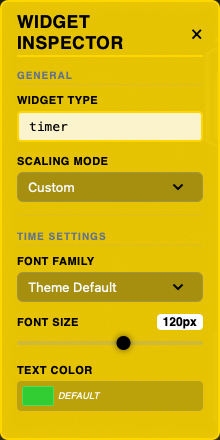
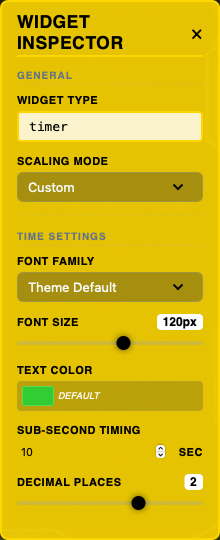
Made fractional timing completely configurable https://github.com/daufderheide/racecoordinator_ai/issues/423

diff --git a/client/src/app/components/ui-editor/widget-inspector-fields/timer-inspector/timer-inspector.component.html b/client/src/app/components/ui-editor/widget-inspector-fields/timer-inspector/timer-inspector.component.html
@@ -74,4 +74,53 @@
       }
     </div>
   </div>
+
+  <!-- Subsecond Settings -->
+  <div class="inspector-section">
+    <label class="inspector-label">{{
+      "UE_INSPECTOR_TIMER_SUBSECOND_THRESHOLD" | translate
+    }}</label>
+    <div style="display: flex; gap: 8px; align-items: center">
+      <input
+        type="number"
+        min="0"
+        step="1"
+        [ngModel]="settings().timeSubsecondThreshold ?? 10"
+        (ngModelChange)="
+          settings().timeSubsecondThreshold = $event; onSettingsChange()
+        "
+        style="
+          flex: 1;
+          padding: 4px;
+          background: var(--bg-level-3);
+          border: 1px solid var(--border-color);
+          color: var(--text-color);
+          border-radius: 4px;
+        "
+      />
+      <span class="inspector-label" style="margin-bottom: 0">sec</span>
+    </div>
+  </div>
+
+  <div class="inspector-section">
+    <div class="inspector-label-row">
+      <label class="inspector-label">{{
+        "UE_INSPECTOR_TIMER_SUBSECOND_DECIMALS" | translate
+      }}</label>
+      <span class="inspector-val-badge">{{
+        settings().timeSubsecondDecimals ?? 2
+      }}</span>
+    </div>
+    <input
+      type="range"
+      min="0"
+      max="3"
+      step="1"
+      [ngModel]="settings().timeSubsecondDecimals ?? 2"
+      (ngModelChange)="
+        settings().timeSubsecondDecimals = $event; onSettingsChange()
+      "
+      class="inspector-slider"
+    />
+  </div>
 }

diff --git a/client/src/app/components/ui-editor/widget-inspector-fields/timer-inspector/timer-inspector.component.spec.ts b/client/src/app/components/ui-editor/widget-inspector-fields/timer-inspector/timer-inspector.component.spec.ts
@@ -75,12 +75,38 @@ describe("TimerInspectorComponent", () => {
     fixture.componentRef.setInput("disableFontSizes", true);
     fixture.detectChanges();
     await fixture.whenStable();
-    const sliders = fixture.nativeElement.querySelectorAll(
-      'input[type="range"]',
-    );
+    const sliders = Array.from<HTMLInputElement>(
+      fixture.nativeElement.querySelectorAll('input[type="range"]'),
+    ).filter((el) => el.getAttribute("max") === "200");
     expect(sliders.length).toBeGreaterThan(0);
     sliders.forEach((slider: HTMLInputElement) => {
       expect(slider.disabled).toBeTrue();
     });
+  });
+
+  it("should update timeSubsecondThreshold and emit change", async () => {
+    const inputEl = fixture.nativeElement.querySelector('input[type="number"]');
+    inputEl.value = "15";
+    inputEl.dispatchEvent(new Event("input"));
+    fixture.detectChanges();
+    await fixture.whenStable();
+    expect(component.settings().timeSubsecondThreshold).toBe(15);
+    expect(changeSpy).toHaveBeenCalled();
+  });
+
+  it("should update timeSubsecondDecimals and emit change", async () => {
+    const slider = Array.from<HTMLInputElement>(
+      fixture.nativeElement.querySelectorAll('input[type="range"]'),
+    ).find((el) => el.getAttribute("max") === "3");
+
+    expect(slider).toBeTruthy();
+    if (slider) {
+      slider.value = "1";
+      slider.dispatchEvent(new Event("input"));
+      fixture.detectChanges();
+      await fixture.whenStable();
+      expect(component.settings().timeSubsecondDecimals).toBe(1);
+      expect(changeSpy).toHaveBeenCalled();
+    }
   });
 });

diff --git a/client/src/app/components/raceday/default-raceday.component.ts b/client/src/app/components/raceday/default-raceday.component.ts
@@ -922,8 +922,16 @@ export class DefaultRacedayComponent
         if (time > this.previousTime) {
           this.timeFormat = "1.0-0";
         } else if (time < this.previousTime) {
-          if (time < 10) {
-            this.timeFormat = "1.2-2";
+          const timerWidget = this.layout?.widgets?.find(
+            (w) => w.widgetType === "timer",
+          );
+          const threshold =
+            timerWidget?.customSettings?.["timeSubsecondThreshold"] ?? 10;
+          const decimals =
+            timerWidget?.customSettings?.["timeSubsecondDecimals"] ?? 2;
+
+          if (time < threshold && decimals > 0) {
+            this.timeFormat = `1.${decimals}-${decimals}`;
           } else {
             this.timeFormat = "1.0-0";
           }

diff --git a/client/src/app/models/settings.ts b/client/src/app/models/settings.ts
@@ -256,6 +256,13 @@ export class Settings {
         height: 239,
         zIndex: 100,
         scaleMode: "auto",
+        customSettings: {
+          timeFontFamily: "",
+          timeFontSize: 100,
+          timeTextColor: "",
+          timeSubsecondThreshold: 10,
+          timeSubsecondDecimals: 2,
+        },
       },
       {
         id: "widget-records",
@@ -320,6 +327,8 @@ export class Settings {
           timeFontFamily: "",
           timeFontSize: 100,
           timeTextColor: "#ffffff",
+          timeSubsecondThreshold: 10,
+          timeSubsecondDecimals: 2,
         },
       },
       {